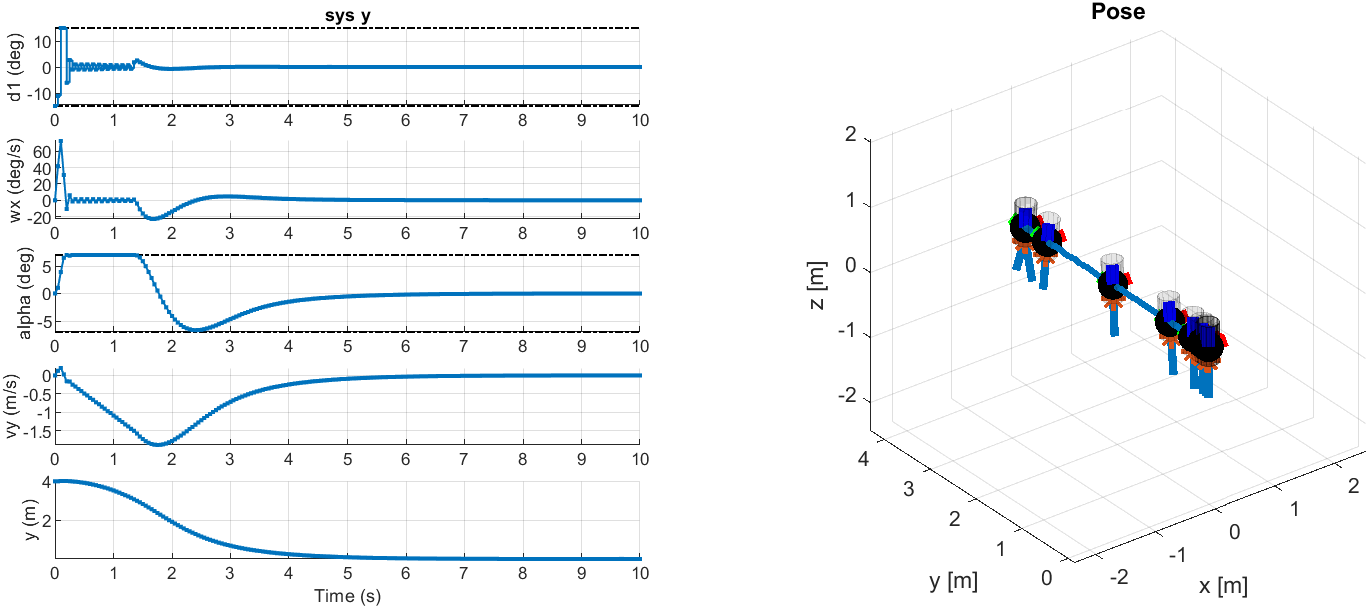
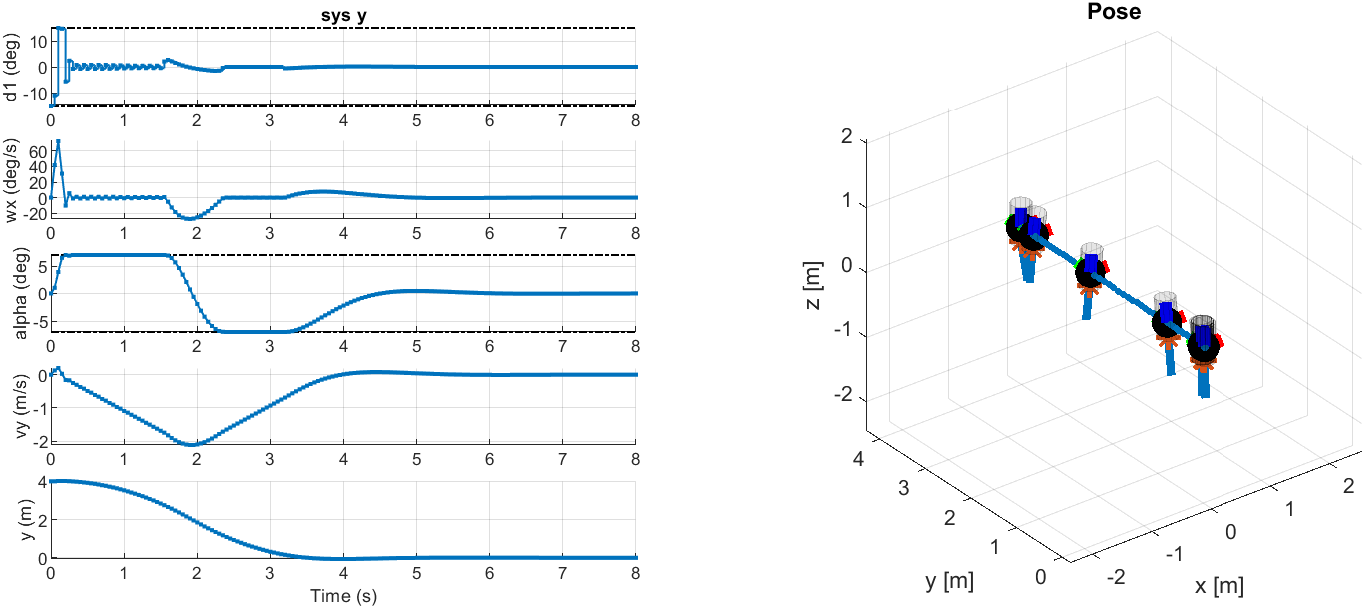
adjustment 3.1 3.2

diff --git a/rocket_project/Deliverable_3_2/MpcControl_z.m b/rocket_project/Deliverable_3_2/MpcControl_z.m
@@ -51,23 +51,23 @@ classdef MpcControl_z < MpcControlBase
             hu = [80-56.66667; -(50-56.66667)];
 
             % costs for the LQR controller
-            Q = 10.*eye(nx);
-            R = eye(nu);
+            Q = diag([2,10]);
+            R = 0.1*diag(1);
 
             % K is the LQR controller, P is the final cost
             [K,Pf,~] = dlqr(mpc.A, mpc.B, Q, R);
-%             K = -K;
-%             Ak = mpc.A+mpc.B*K;
+            K = -K;
+            Ak = mpc.A+mpc.B*K;
 
             % the combined constraints of state and input with controller K
             % in closed loop
-%             Hxu = Hu*K;
-%             hxu = hu;
+            Hxu = Hu*K;
+            hxu = hu;
 
             % the terminal set of the controller K in closed loop
-%             Poly_xu = polytope(Hxu, hxu);
-%             term_set = max_contr_invar_set(Poly_xu, Ak);
-%             [Hxf, hxf] = double(term_set); % terminal constraint
+            Poly_xu = polytope(Hxu, hxu);
+            term_set = max_contr_invar_set(Poly_xu, Ak);
+            [Hxf, hxf] = double(term_set); % terminal constraint
 
             % SET THE PROBLEM CONSTRAINTS con AND THE OBJECTIVE obj HERE
             obj = 0;
@@ -79,7 +79,7 @@ classdef MpcControl_z < MpcControlBase
                 obj   = obj + (X(:,k)-x_ref)'*Q*(X(:,k)-x_ref) + (U(:,k)-u_ref)'*R*(U(:,k)-u_ref);
             end
             obj = obj + (X(:,N)-x_ref)'*Pf*(X(:,N)-x_ref);
-%             con = [con, Hxf*X(:,N) <= hxf];
+            con = [con, Hxf*X(:,N) <= hxf + Hxf*x_ref];
             
             % YOUR CODE HERE YOUR CODE HERE YOUR CODE HERE YOUR CODE HERE
             %%%%%%%%%%%%%%%%%%%%%%%%%%%%%%%%%%%%%%%%%%%%%%%%%%%%%%%%%%%%%%%
@@ -124,8 +124,6 @@ classdef MpcControl_z < MpcControlBase
 
             Qt_pos = 1;  % Q target position
             obj = (mpc.C*xs-ref)'*Qt_pos*(mpc.C*xs-ref);
-%             Qt_states = eye(nx); % Q target states
-%             obj = (xs-ref.*[0;1])'*Qt_states*(xs-ref.*[0;1]);
             con = [xs == mpc.A*xs + mpc.B*us, Hu*us <= hu];
 
             % YOUR CODE HERE YOUR CODE HERE YOUR CODE HERE YOUR CODE HERE

diff --git a/rocket_project/Deliverable_3_1/Deliverable_3_1.m b/rocket_project/Deliverable_3_1/Deliverable_3_1.m
@@ -21,7 +21,7 @@ sys = rocket.linearize(xs, us);
 % Design MPC controller
 H = 4; % Horizon length in seconds
 % for H<3 there is overshoot
-sim_duration = 10;
+sim_duration = 8;
 num_steps = sim_duration/Ts;
 x0 = [0; deg2rad(35)]; % initial state
 mpc_roll = MpcControl_roll(sys_roll, Ts, H);
@@ -55,7 +55,7 @@ ph = rocket.plotvis_sub(T, X_sub, U_sub, sys_roll, xs, us);
 %% Simulate the x system
 % Design MPC controller
 H = 4;
-sim_duration = 10;
+sim_duration = 8;
 num_steps = sim_duration/Ts;
 
 x0 = [0; 0; 0; 4]; % initial state
@@ -92,7 +92,7 @@ ph = rocket.plotvis_sub(T, X_sub, U_sub, sys_x, xs, us);
 %% Simulate the y system
 % Design MPC controller
 H = 4;
-sim_duration = 10;
+sim_duration = 8;
 num_steps = sim_duration/Ts;
 
 x0 = [0; 0; 0; 4]; % initial state

diff --git a/rocket_project/Deliverable_3_2/Deliverable_3_2.m b/rocket_project/Deliverable_3_2/Deliverable_3_2.m
@@ -23,7 +23,7 @@ sys = rocket.linearize(xs, us);
 % Design MPC controller
 H = 4; % Horizon length in seconds
 % for H<3 there is overshoot
-sim_duration = 10;
+sim_duration = 8;
 num_steps = sim_duration/Ts;
 x0 = [0; 0]; % initial state
 x_ref = deg2rad(35);
@@ -59,7 +59,7 @@ ph = rocket.plotvis_sub(T, X_sub, U_sub, sys_roll, xs, us);
 %% Simulate the x system
 % Design MPC controller
 H = 4;
-sim_duration = 10;
+sim_duration = 8;
 num_steps = sim_duration/Ts;
 
 x0 = [0; 0; 0; 0]; % initial state
@@ -98,7 +98,7 @@ ph = rocket.plotvis_sub(T, X_sub, U_sub, sys_x, xs, us, x_ref);
 %% Simulate the y system
 % Design MPC controller
 H = 4;
-sim_duration = 10;
+sim_duration = 8;
 num_steps = sim_duration/Ts;
 
 x0 = [0; 0; 0; 0]; % initial state

diff --git a/rocket_project/Deliverable_3_1/MpcControl_roll.m b/rocket_project/Deliverable_3_1/MpcControl_roll.m
@@ -33,8 +33,9 @@ classdef MpcControl_roll < MpcControlBase
             %       the DISCRETE-TIME MODEL of your system
             
             % SET THE PROBLEM CONSTRAINTS con AND THE OBJECTIVE obj HERE
-            Q = 20*eye(nx);
-            R = eye(nu);
+            Q = diag([1,20]);
+            R = diag(0.1);
+
             [~,Pf,~] = dlqr(mpc.A, mpc.B, Q, R);
             obj = 0;
             con = [];

diff --git a/rocket_project/Deliverable_3_2/MpcControl_roll.m b/rocket_project/Deliverable_3_2/MpcControl_roll.m
@@ -33,8 +33,9 @@ classdef MpcControl_roll < MpcControlBase
             %       the DISCRETE-TIME MODEL of your system
             
             % SET THE PROBLEM CONSTRAINTS con AND THE OBJECTIVE obj HERE
-            Q = 20*eye(nx);
-            R = eye(nu);
+            Q = diag([1,20]);
+            R = diag(0.1);
+
             [~,Pf,~] = dlqr(mpc.A, mpc.B, Q, R);
             obj = 0;
             con = [];

diff --git a/rocket_project/Deliverable_3_1/MpcControl_y.m b/rocket_project/Deliverable_3_1/MpcControl_y.m
@@ -39,8 +39,8 @@ classdef MpcControl_y < MpcControlBase
             hu = [deg2rad(15); deg2rad(15)]; % constraint on the input d1
 
             % costs for the LQR controller
-            Q = 2*eye(nx);
-            R = eye(nu);
+            Q = diag([5,1,1,5]);
+            R = 5*eye(nu);
 
             % K is the LQR controller, P is the final cost
             [K,Pf,~] = dlqr(mpc.A, mpc.B, Q, R);

diff --git a/rocket_project/Deliverable_3_2/MpcControl_y.m b/rocket_project/Deliverable_3_2/MpcControl_y.m
@@ -39,8 +39,8 @@ classdef MpcControl_y < MpcControlBase
             hu = [deg2rad(15); deg2rad(15)]; % constraint on the input d1
 
             % costs for the LQR controller
-            Q = 2*eye(nx);
-            R = eye(nu);
+            Q = diag([5,1,1,5]);
+            R = 5*eye(nu);
 
             % K is the LQR controller, P is the final cost
             [K,Pf,~] = dlqr(mpc.A, mpc.B, Q, R);

diff --git a/rocket_project/Deliverable_3_1/MpcControl_z.m b/rocket_project/Deliverable_3_1/MpcControl_z.m
@@ -51,8 +51,8 @@ classdef MpcControl_z < MpcControlBase
             hu = [80-56.66667; -(50-56.66667)];
 
             % costs for the LQR controller
-            Q = 10.*eye(nx);
-            R = eye(nu);
+            Q = diag([2,10]);
+            R = 0.1*diag(1);
 
             % K is the LQR controller, P is the final cost
             [K,Pf,~] = dlqr(mpc.A, mpc.B, Q, R);

diff --git a/rocket_project/Deliverable_3_1/MpcControl_x.m b/rocket_project/Deliverable_3_1/MpcControl_x.m
@@ -39,8 +39,8 @@ classdef MpcControl_x < MpcControlBase
             hu = [deg2rad(15); deg2rad(15)];
 
             % costs for the LQR controller
-            Q = 2*eye(nx);
-            R = eye(nu);
+            Q = diag([5,1,1,5]);
+            R = 5*eye(nu);
 
             % K is the LQR controller, P is the final cost
             [K,Pf,~] = dlqr(mpc.A, mpc.B, Q, R);

diff --git a/rocket_project/Deliverable_3_2/MpcControl_x.m b/rocket_project/Deliverable_3_2/MpcControl_x.m
@@ -39,8 +39,8 @@ classdef MpcControl_x < MpcControlBase
             hu = [deg2rad(15); deg2rad(15)];
 
             % costs for the LQR controller
-            Q = 2*eye(nx);
-            R = eye(nu);
+            Q = diag([5,1,1,5]);
+            R = 5*eye(nu);
 
             % K is the LQR controller, P is the final cost
             [K,Pf,~] = dlqr(mpc.A, mpc.B, Q, R);
